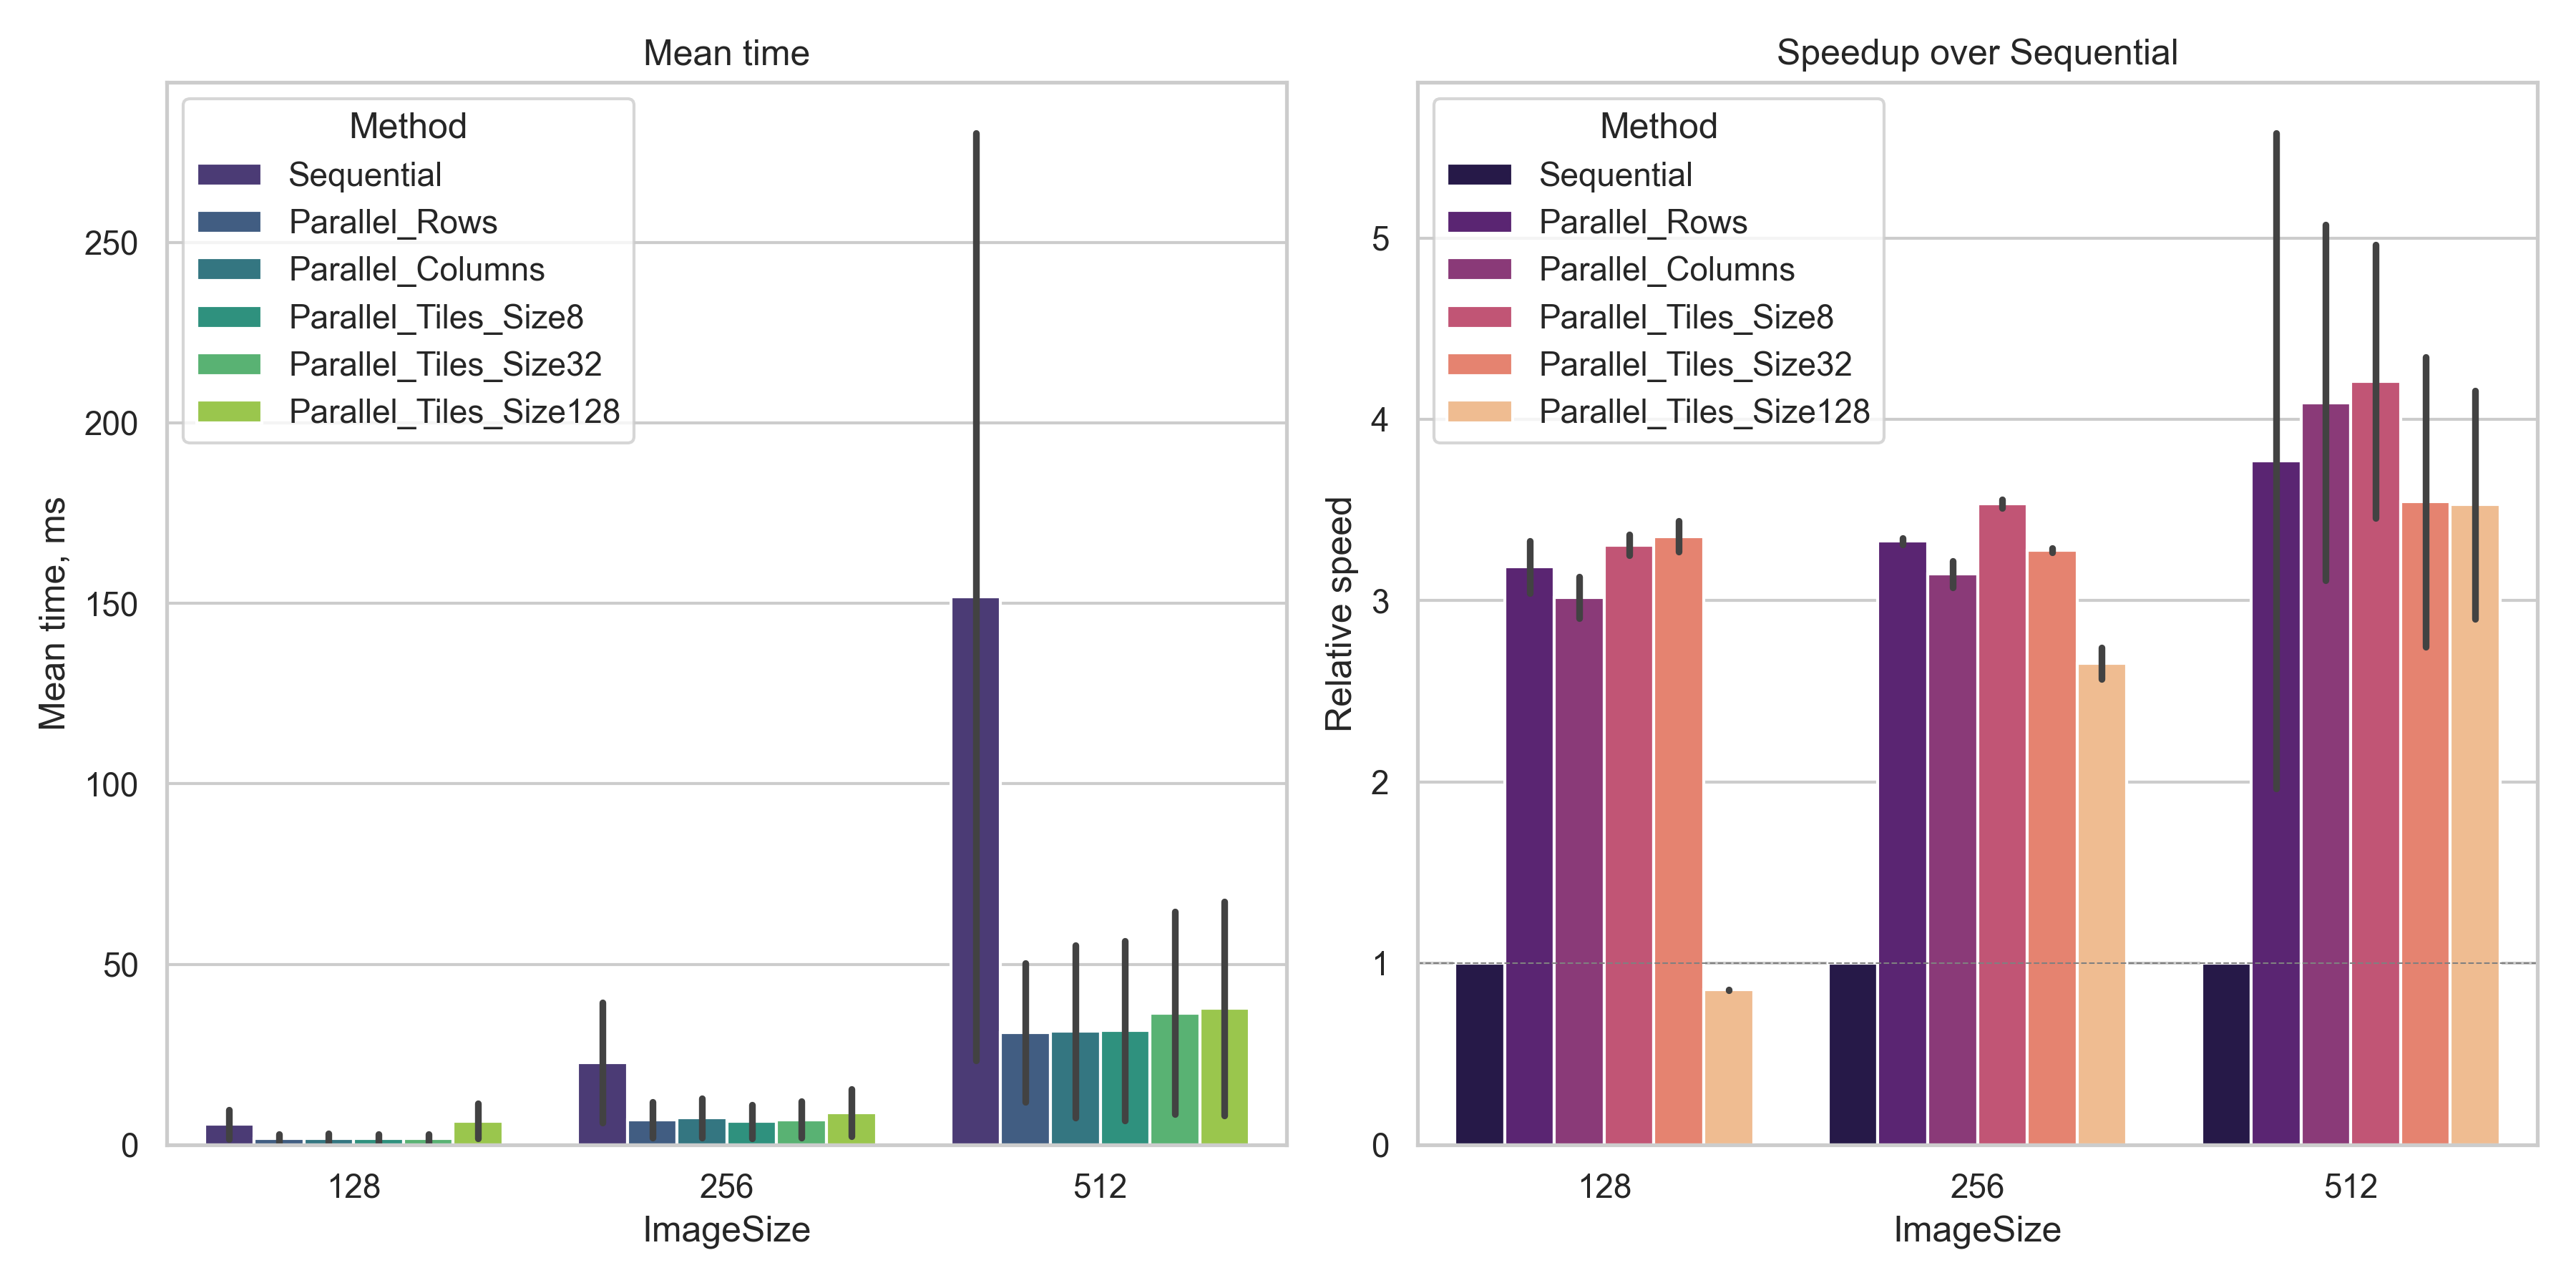
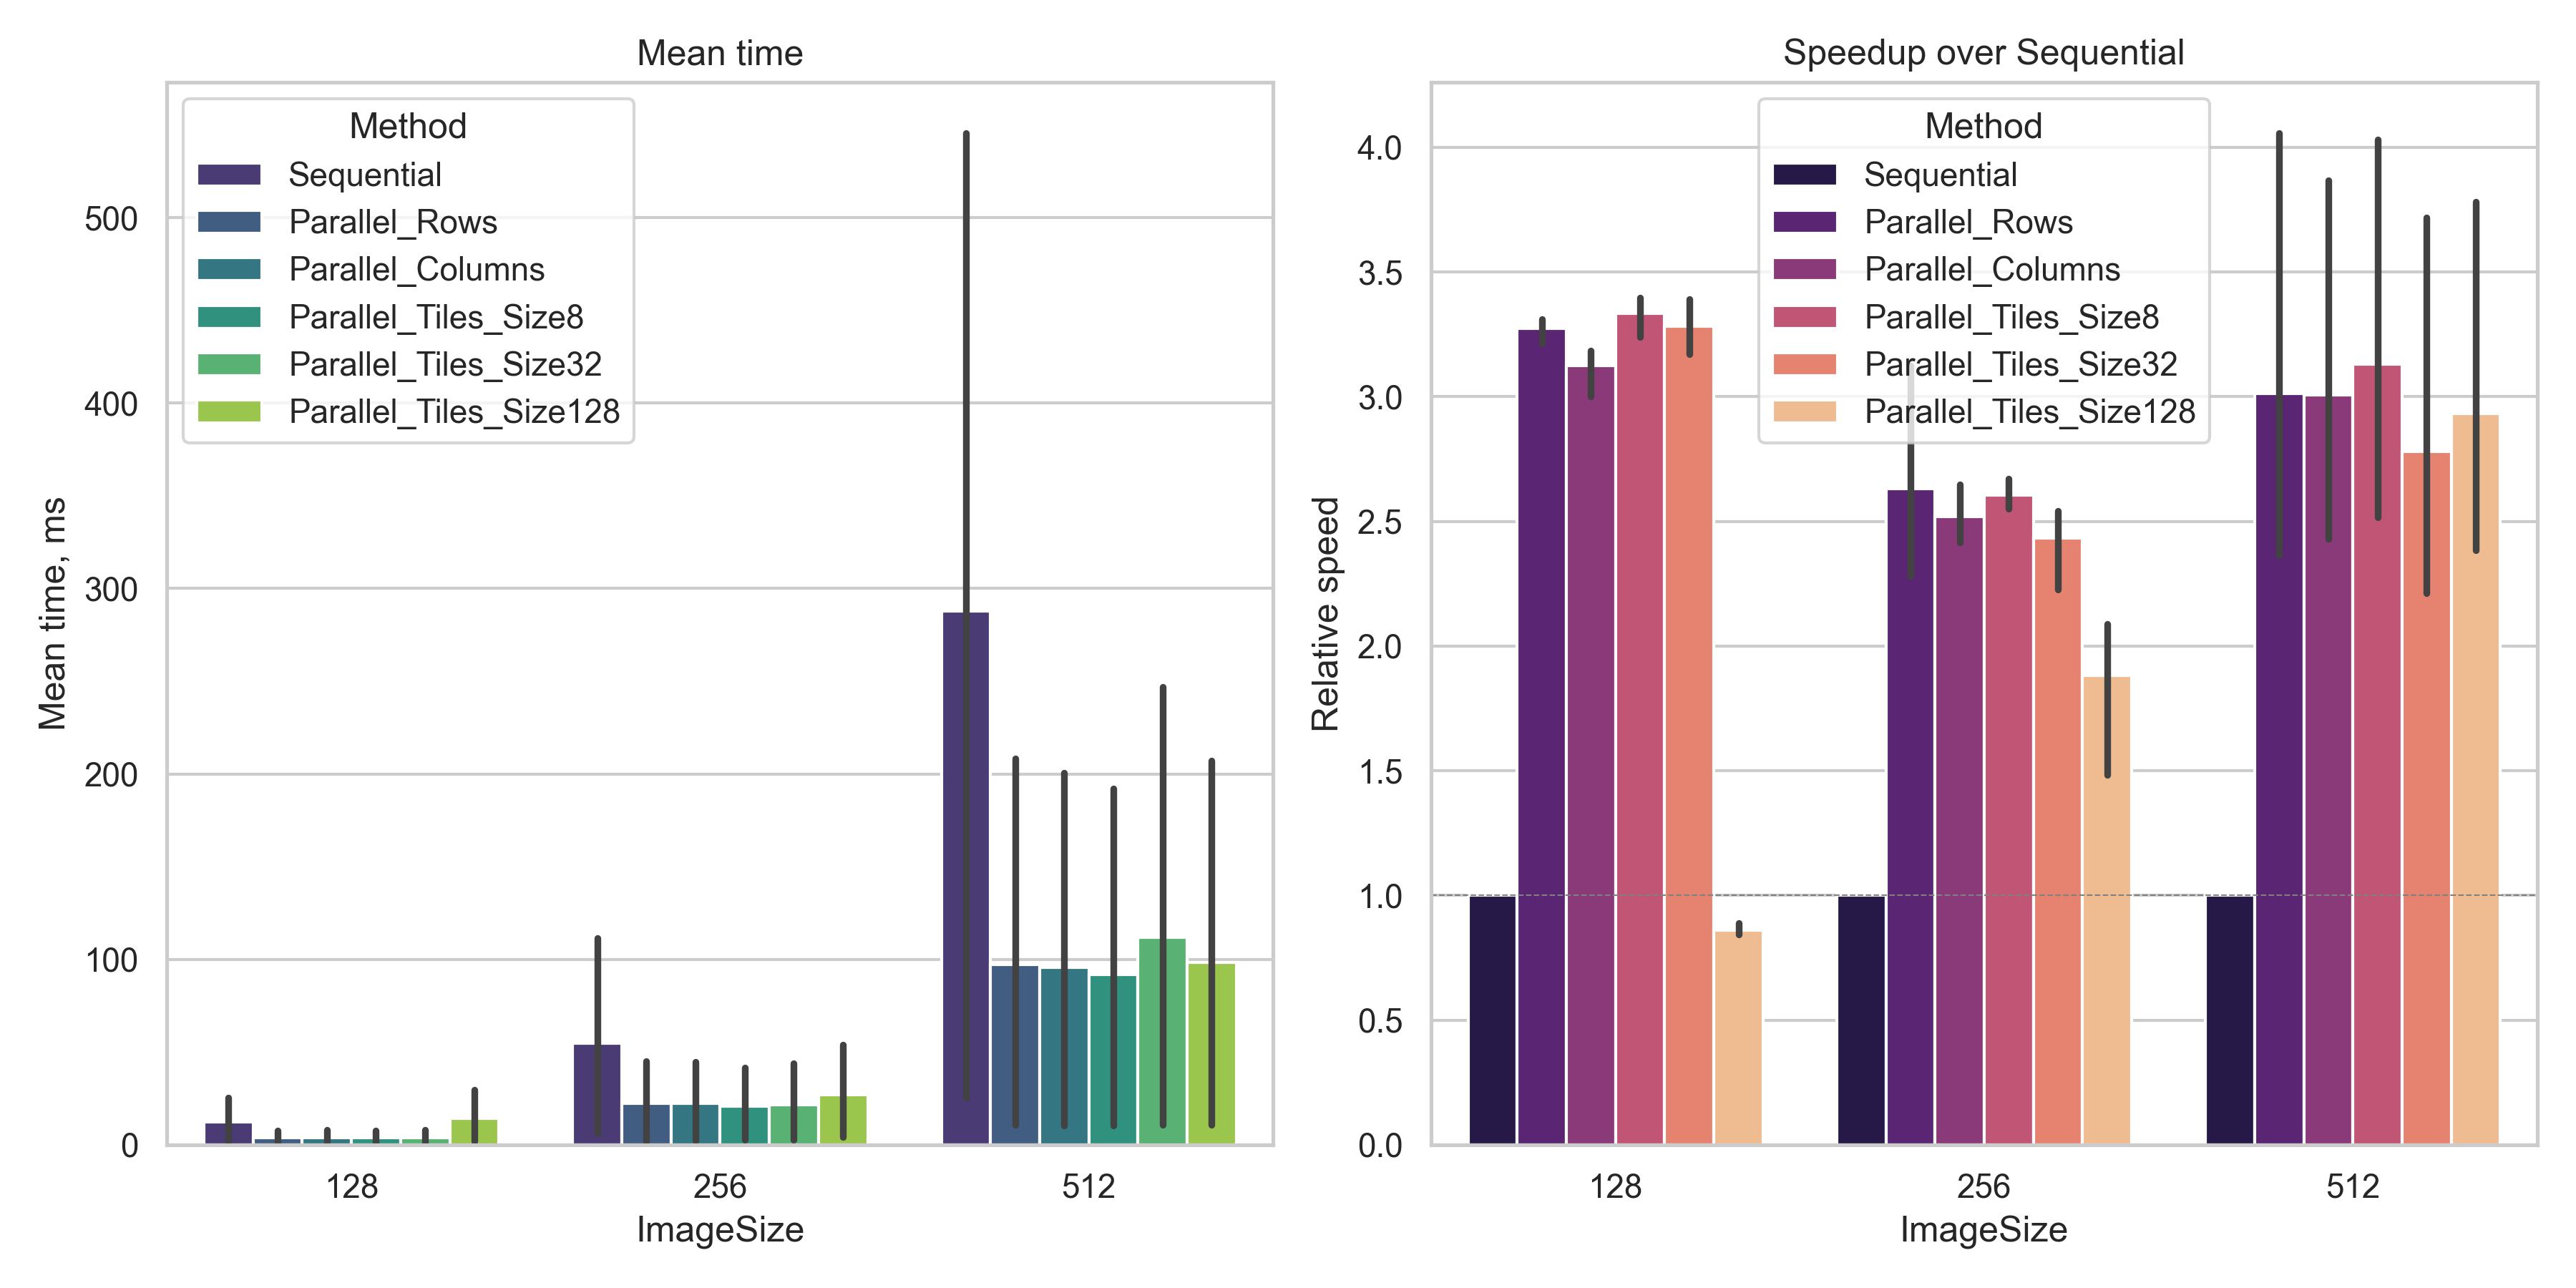
minor fixes

diff --git a/Convolution.Tests/EdgeCases.cs b/Convolution.Tests/EdgeCases.cs
@@ -68,8 +68,8 @@ public class EdgeCases
     public void Pad_NegativeOrZeroPadding_ThrowsArgumentException()
     {
         var filter = Filters.Identity;
-        Assert.Throws<ArgumentException>(() => filter.Pad(padding: 0));
-        Assert.Throws<ArgumentException>(() => filter.Pad(padding: -1));
+        Assert.Throws<ArgumentOutOfRangeException>(() => filter.Pad(padding: 0));
+        Assert.Throws<ArgumentOutOfRangeException>(() => filter.Pad(padding: -1));
     }
 
     [Fact]

diff --git a/Convolution.Measurement/Benchmark.cs b/Convolution.Measurement/Benchmark.cs
@@ -17,7 +17,7 @@ public class Benchmark
     [Params(128, 256, 512)]
     public int ImageSize { get; set; }
 
-    [Params(5, 13, 32)]
+    [Params(5, 13, 21)]
     public int FilterSize { get; set; }
 
     private readonly ImageGenerator imageGenerator = new(seed: 42);

diff --git a/Convolution.Measurement/BenchmarkConfig.cs b/Convolution.Measurement/BenchmarkConfig.cs
@@ -10,6 +10,7 @@ public class BenchmarkConfig : ManualConfig
 {
     public BenchmarkConfig()
     {
+        this.Options = ConfigOptions.StopOnFirstError;
         this.SummaryStyle = SummaryStyle.Default
             .WithTimeUnit(TimeUnit.Millisecond)
             .WithSizeUnit(SizeUnit.B)